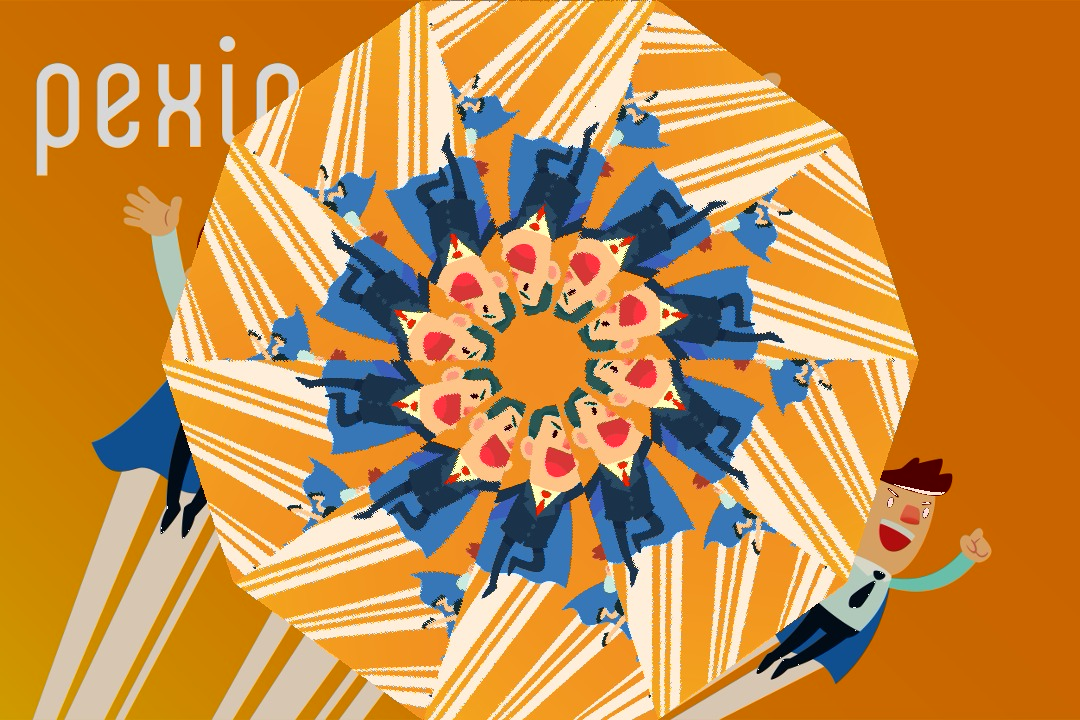
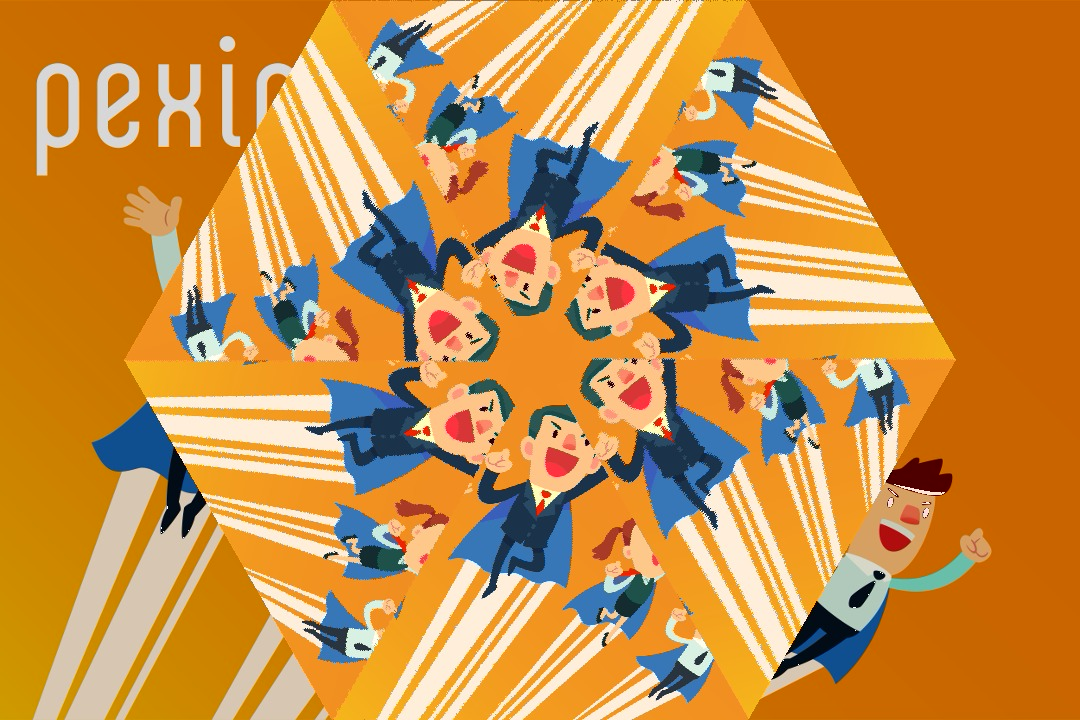
refactor: Comments, docs and variable names. Submission ready

diff --git a/my_library.c b/my_library.c
@@ -28,9 +28,9 @@ void kaleidoscope(uint8_t *yuvbuf_in, int width, int height,
   double fi = 2 * M_PI / n_sectors; // Triangle top angle
   int height_mid = height / 2;
   int width_mid = width / 2;
-  int width_length; // The length of the bottom half-side of the main triangle
+  int base_len; // Half the length of the bottom side of the triangle
 
-  // Image buffers with enforced out-place execution policy
+  // Image buffers with enforced out-place implementation policy
   int buf_size = width * height * 3 / 2;
   memmove(yuvbuf_out, yuvbuf_in, buf_size);
   uint8_t *yuvbuf_in_2 = NULL;
@@ -54,12 +54,10 @@ void kaleidoscope(uint8_t *yuvbuf_in, int width, int height,
   in the height dimension of the original triangle. A schematic of the geometry
   is included in the README.md */
   for (int h = height - 1; h >= 0; h -= 2) {
-    // Split the triangle base in two halfs
-    width_length = h * tan(fi / 2);
+    base_len = h * tan(fi / 2);
 
     // Shrink horizontaly by skipping every second pixel in width dimension
-    for (int w = width_mid - width_length; w <= width_mid + width_length;
-         w += 2) {
+    for (int w = width_mid - base_len; w <= width_mid + base_len; w += 2) {
       /* Get the YUV values of the pixel from the main triangle. These are
       still bright since they are comming straight from the input image */
       uv_idx = (h / 2) * (width / 2) + (w / 2);
@@ -71,7 +69,7 @@ void kaleidoscope(uint8_t *yuvbuf_in, int width, int height,
       h_dst = height_mid + h / 2;
       w_dst = width_mid + (w - width_mid) / 2;
 
-      // 3. ROTATE and copy the pixel color to all sectors
+      // 3. ROTATE and copy the pixel to the corresponding pixels in all sectors
       clone_pixel(yuvbuf_out, width, height, w_dst, h_dst, fi, n_sectors, y, u,
                   v, u_off, v_off);
     } // End inner for
@@ -103,38 +101,29 @@ void clone_pixel(uint8_t *yuvbuf, int width, int height, int w, int h,
   int w_dst;    // Destination pixel width coordinate
   int uv_idx;   // Index alignment within the YUV frame
 
-  // Shift the coordinates origin from top left to the middle of the image
+  // Shift the coordinates origin from the top left to the middle of the image
   h = h - height / 2;
   w = w - width / 2;
 
-  // Convert the pixel's cartesian coordinates (h, w) to polar (r, θ)
+  // Convert the pixel's coordinates from cartesian (h, w) to polar (r, θ)
   r = sqrt(w * w + h * h);
   theta = atan2(h, w);
 
   for (int s = 0; s < n_sectors; ++s) {
-    // Add the rotation factor to the angle while covering all quadrants
+    // Add the rotation factor to the base angle while covering all quadrants
     theta = (s % 2 != 0) ? theta + fi * s : theta - fi * s;
 
-    // Convert coordinates from polat back to cartesian readjusting the origin
+    // Convert coordinates from polat back to cartesian while reseting origin
     h_dst = r * sin(theta) + height / 2;
     w_dst = r * cos(theta) + width / 2;
 
-    // Set new pixel value at the rotated position plus four neighbors
-    for (int i = 0; i <= 4; ++i) {
+    /* Paint the pixel at the rotated position plus the top, bottom, left and 
+    right neighbors for image smoothness */
+    for (int i = 0; i < 5; ++i) {
       uv_idx = (h_dst / 2) * (width / 2) + (w_dst / 2);
       yuvbuf[h_dst * width + w_dst] = y;
       yuvbuf[u_off + uv_idx] = u;
       yuvbuf[v_off + uv_idx] = v;
-
-      /* Paint the following neighbor pixels for smoothing the kaleidoscope
-      +-----------------+
-      |     | i=0 |     |
-      +-----------------+
-      | i=2 | dst | i=3 |
-      +-----------------+
-      |     | i=1 |     |
-      +-----------------+
-      */
       if (i == 0) {
         h_dst--;
       } else if (i == 1) {
@@ -144,7 +133,7 @@ void clone_pixel(uint8_t *yuvbuf, int width, int height, int w, int h,
         w_dst--;
       } else {
         w_dst += 2;
-      } // End if / else
+      } // End if/else
 
       // Check we do not cross the image boundaries
       if (h_dst < 1 || h_dst > height - 1 || w_dst < 1 || w_dst > width - 1) {

diff --git a/main.c b/main.c
@@ -13,6 +13,7 @@ int main(int argc, char *argv[]) {
   uint8_t *yuvbuf_in = NULL;
   uint8_t *yuvbuf_out;
   int width, height;
+  int n_sectors = 6; // Number of sectors of the kaleidoscope
 
   if (argc != 3) {
     fprintf(stderr, "Usage: %s <jpeg in> <jpeg out>\n", argv[0]);
@@ -32,7 +33,7 @@ int main(int argc, char *argv[]) {
     assert(yuvbuf_out);
   }
 
-  kaleidoscope(yuvbuf_in, width, height, yuvbuf_out, 10);
+  kaleidoscope(yuvbuf_in, width, height, yuvbuf_out, n_sectors);
 
   write_i420_to_jpeg(yuvbuf_out, width, height, outpath);
 

diff --git a/README.md b/README.md
@@ -20,11 +20,11 @@ Then run: `./imageloader <input.jpg> <out.jpg>`
 
 ## Kaleidoscope video effect
 
-The kaleidoscope function takes jpeg as an input, apply the kaleidoscope effect similar to how it is shown in [this video](https://www.youtube.com/watch?v=SbQJKjORQJk) and saves the result in a jpeg file. The effect as it is shown in the video has multiple processing stages such as: dimming the background, scaling down the image and then moving the pixels around to create the kaleidoscope effect. 
+The kaleidoscope function takes jpeg as an input, applies the kaleidoscope effect similar to how it is shown in [this video](https://www.youtube.com/watch?v=SbQJKjORQJk) and saves the result in a jpeg file. The effect as it is shown in the video has multiple processing stages such as: dimming the background, scaling down the image and then moving the pixels around to create the kaleidoscope effect. 
 
 Our kaleidoscope dims the pixels outside the kalidoscope rim and provides an option as to how many sectors the kaleidoscope may display.
 
-I420 YUV pixel format is explained in this [link](https://www.fourcc.org/pixel-format/yuv-i420/) more visual explanation at the bottom of this wikipedia [article](https://en.wikipedia.org/wiki/YUV).
+I420 YUV pixel format is explained in this [link](https://www.fourcc.org/pixel-format/yuv-i420/). More visual explanation at the bottom of this wikipedia [article](https://en.wikipedia.org/wiki/YUV).
 
 ## Implementation notes
 
@@ -37,8 +37,8 @@ I420 YUV pixel format is explained in this [link](https://www.fourcc.org/pixel-f
 #endif
 ```
 
-- The kaleidoscope effect is implemented in the function `kaleidoscope` that is declared `my_library.h` and defined in `my_library.c`. Further, helper functions are used and defined after the `kaleidoscope` function.
+- The kaleidoscope effect is implemented in the function `kaleidoscope` that is declared `my_library.h` and defined in `my_library.c`. Further, some helper functions are used and are defined after the `kaleidoscope` function.
 
-- The the main triangle and the basic 6 o' clock triangle of the kaleidoscope that are used during shrinking and rotating are shown below.
+- The the main triangle and the basic 6 o' clock triangle of the kaleidoscope that are used during 'shrink and rotate' are shown below.
 
 ![Trigonometry](schematic.png)
